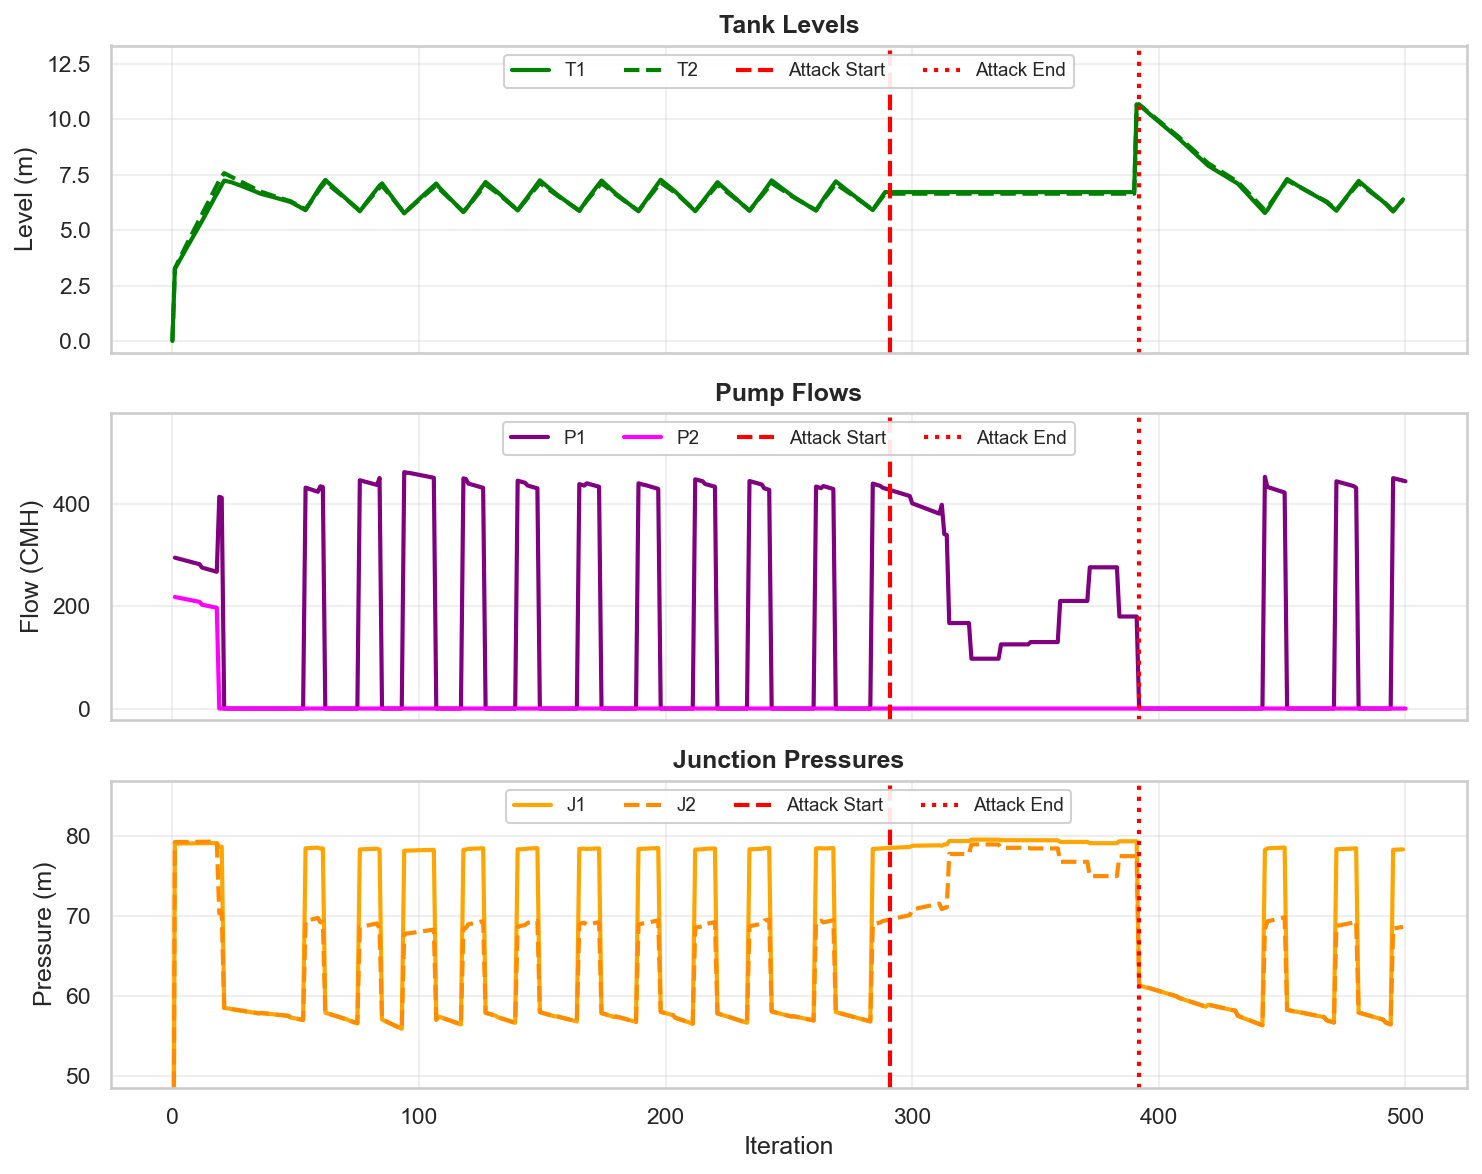
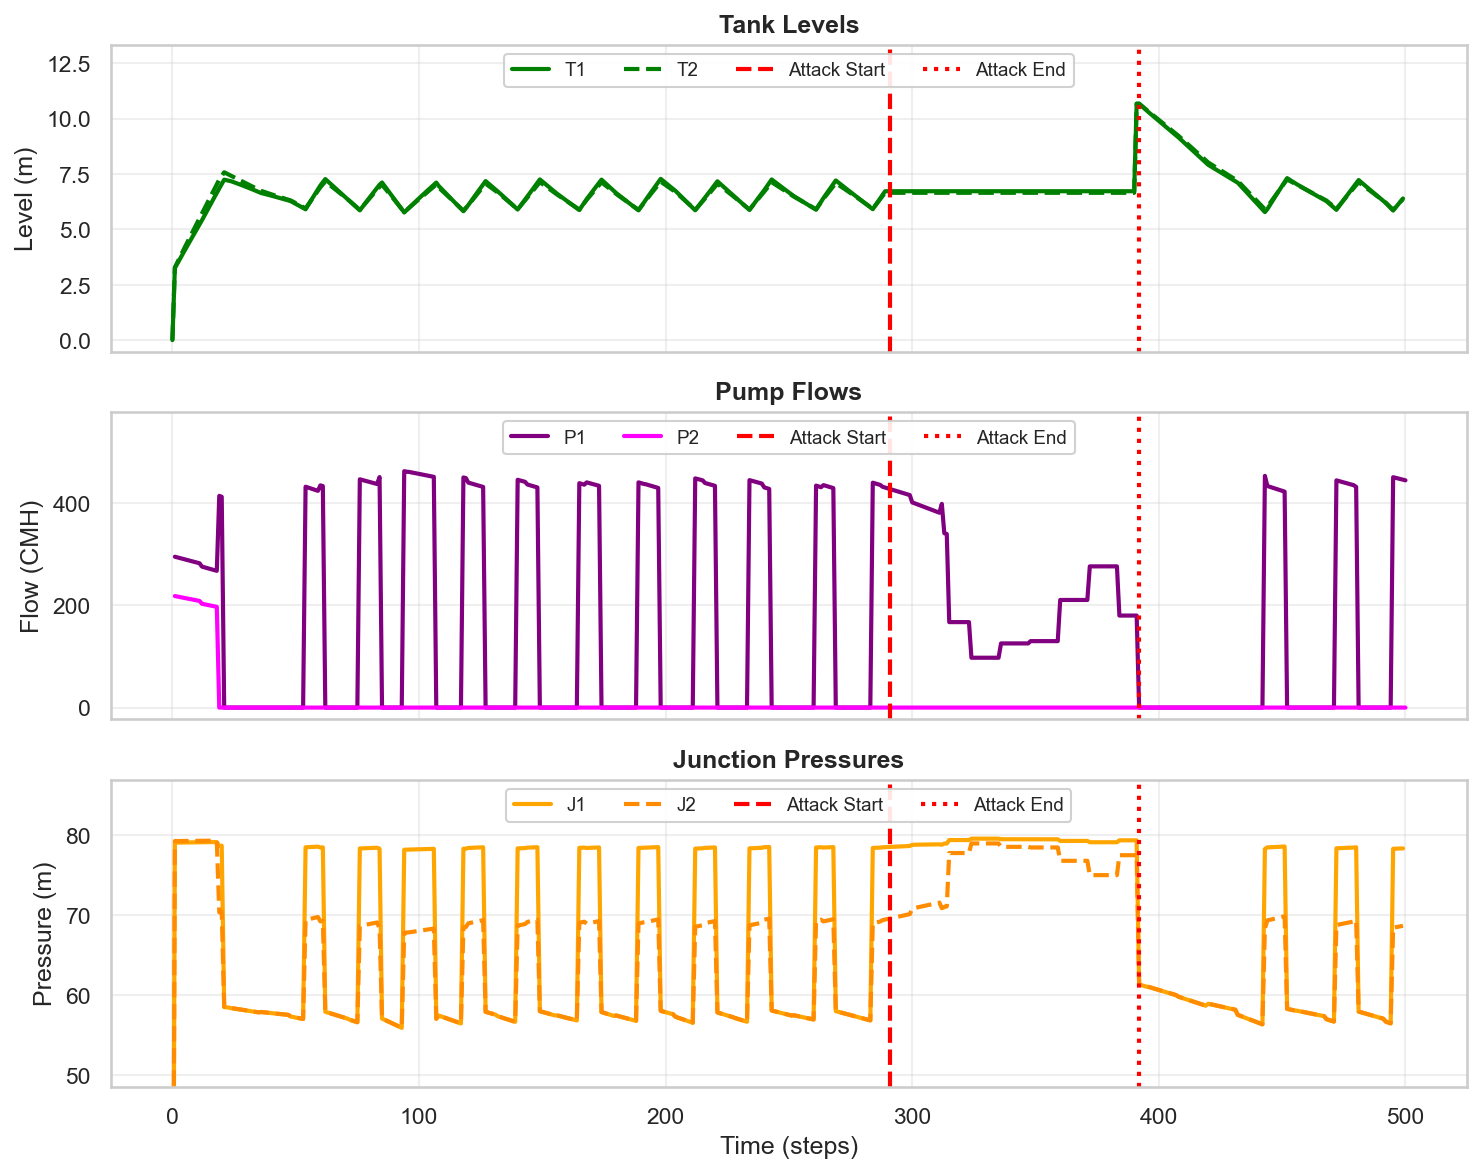
Fix X axis label to Time (steps)

diff --git a/aaaMyViz/run_visualization.py b/aaaMyViz/run_visualization.py
@@ -200,7 +200,7 @@ try:
     axes[2].axvline(x=attack_end, color='red', linestyle=':', linewidth=2, label='Attack End')
     axes[2].set_title("Junction Pressures", fontsize=12, fontweight='bold')
     axes[2].set_ylabel("Pressure (m)")
-    axes[2].set_xlabel("Iteration")
+    axes[2].set_xlabel("Time (steps)")
     axes[2].grid(True, alpha=0.3)
     adjust_ylim(axes[2], ['J1_LEVEL', 'J2_LEVEL'], ground_truth_df, min_override=50)
     add_legend_top_center(axes[2])
@@ -250,7 +250,7 @@ try:
     axes2[2].axvline(x=attack_end, color='red', linestyle=':', linewidth=2, label='Attack End')
     axes2[2].set_title("Junction Pressures", fontsize=12, fontweight='bold')
     axes2[2].set_ylabel("Pressure (m)")
-    axes2[2].set_xlabel("Iteration")
+    axes2[2].set_xlabel("Time (steps)")
     axes2[2].grid(True, alpha=0.3)
     adjust_ylim(axes2[2], ['J1', 'J2'], scada_df, min_override=50)
     add_legend_top_center(axes2[2])
@@ -307,7 +307,7 @@ try:
     axes3[2].axvline(x=attack_end_guard, color='red', linestyle=':', linewidth=2, label='Attack End')
     axes3[2].set_title("Junction Pressures", fontsize=12, fontweight='bold')
     axes3[2].set_ylabel("Pressure (m)")
-    axes3[2].set_xlabel("Iteration")
+    axes3[2].set_xlabel("Time (steps)")
     axes3[2].grid(True, alpha=0.3)
     adjust_ylim(axes3[2], ['J1_LEVEL', 'J2_LEVEL'], ground_truth_guard_df, min_override=50)
     add_legend_top_center(axes3[2])
@@ -357,7 +357,7 @@ try:
     axes4[2].axvline(x=attack_end_guard, color='red', linestyle=':', linewidth=2, label='Attack End')
     axes4[2].set_title("Junction Pressures", fontsize=12, fontweight='bold')
     axes4[2].set_ylabel("Pressure (m)")
-    axes4[2].set_xlabel("Iteration")
+    axes4[2].set_xlabel("Time (steps)")
     axes4[2].grid(True, alpha=0.3)
     adjust_ylim(axes4[2], ['J1', 'J2'], scada_guard_df, min_override=50)
     add_legend_top_center(axes4[2])
